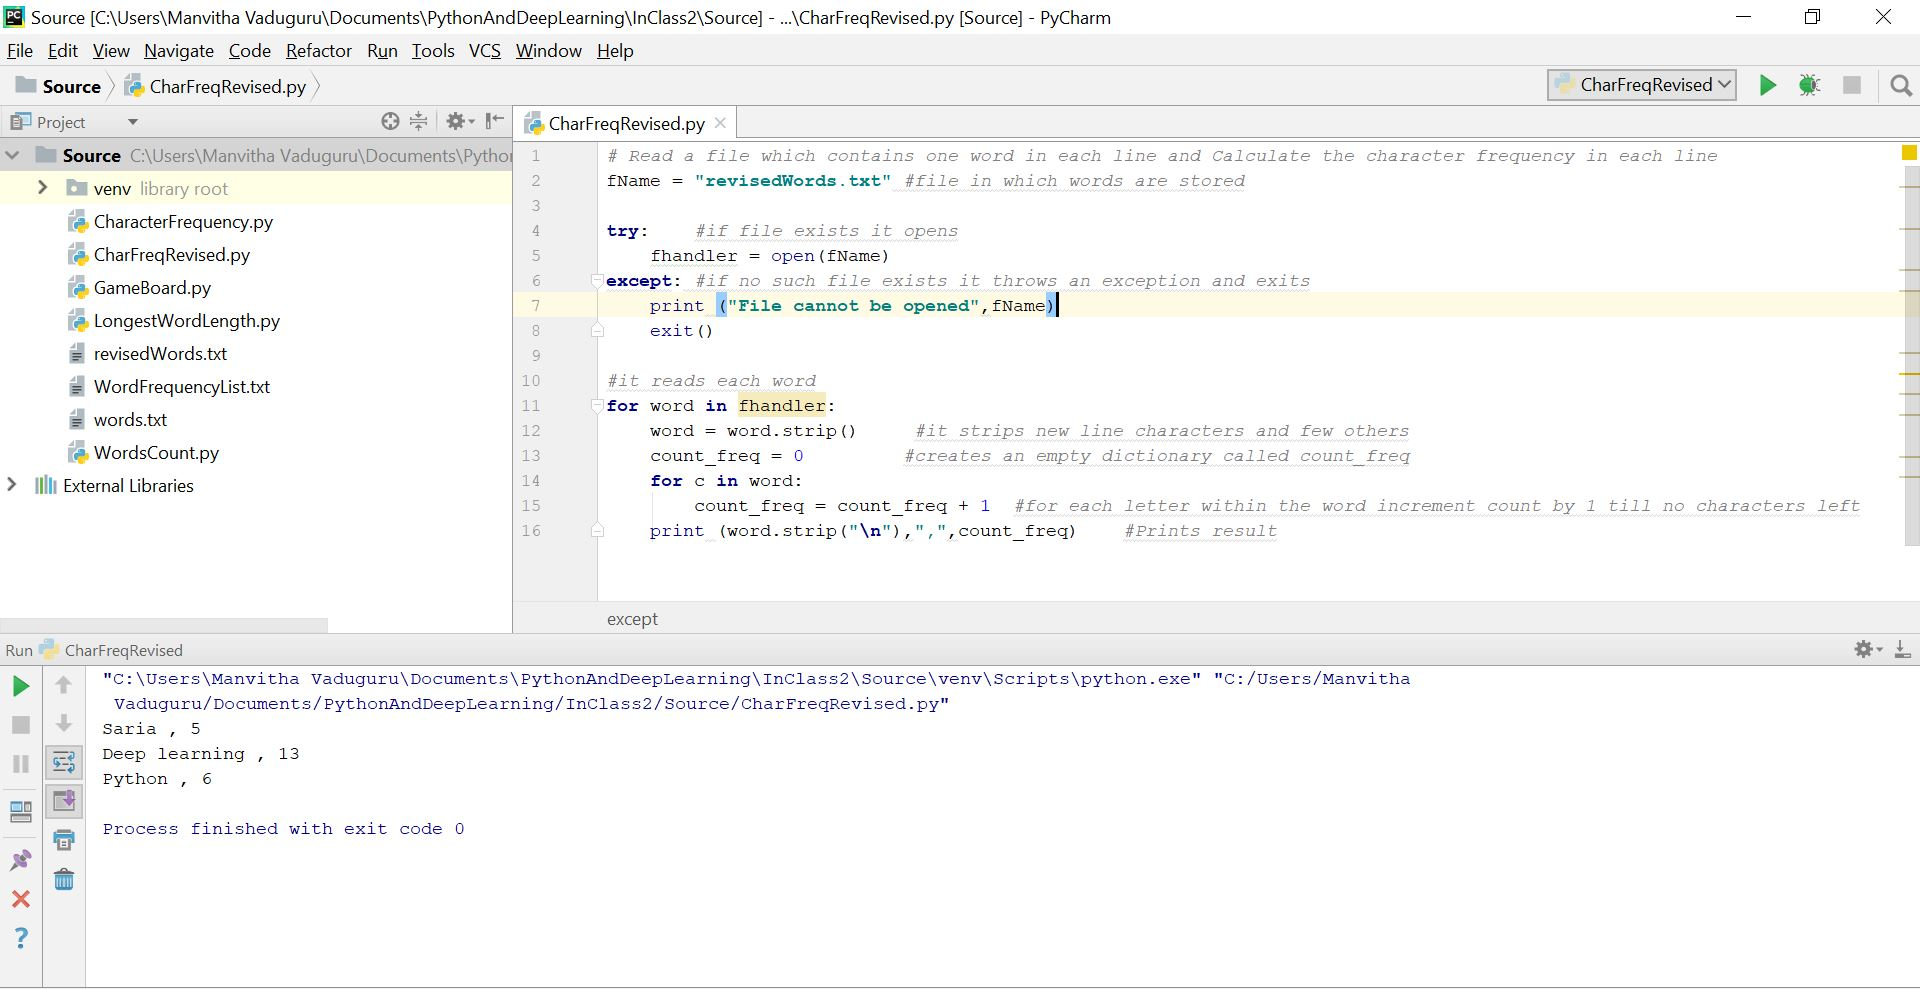
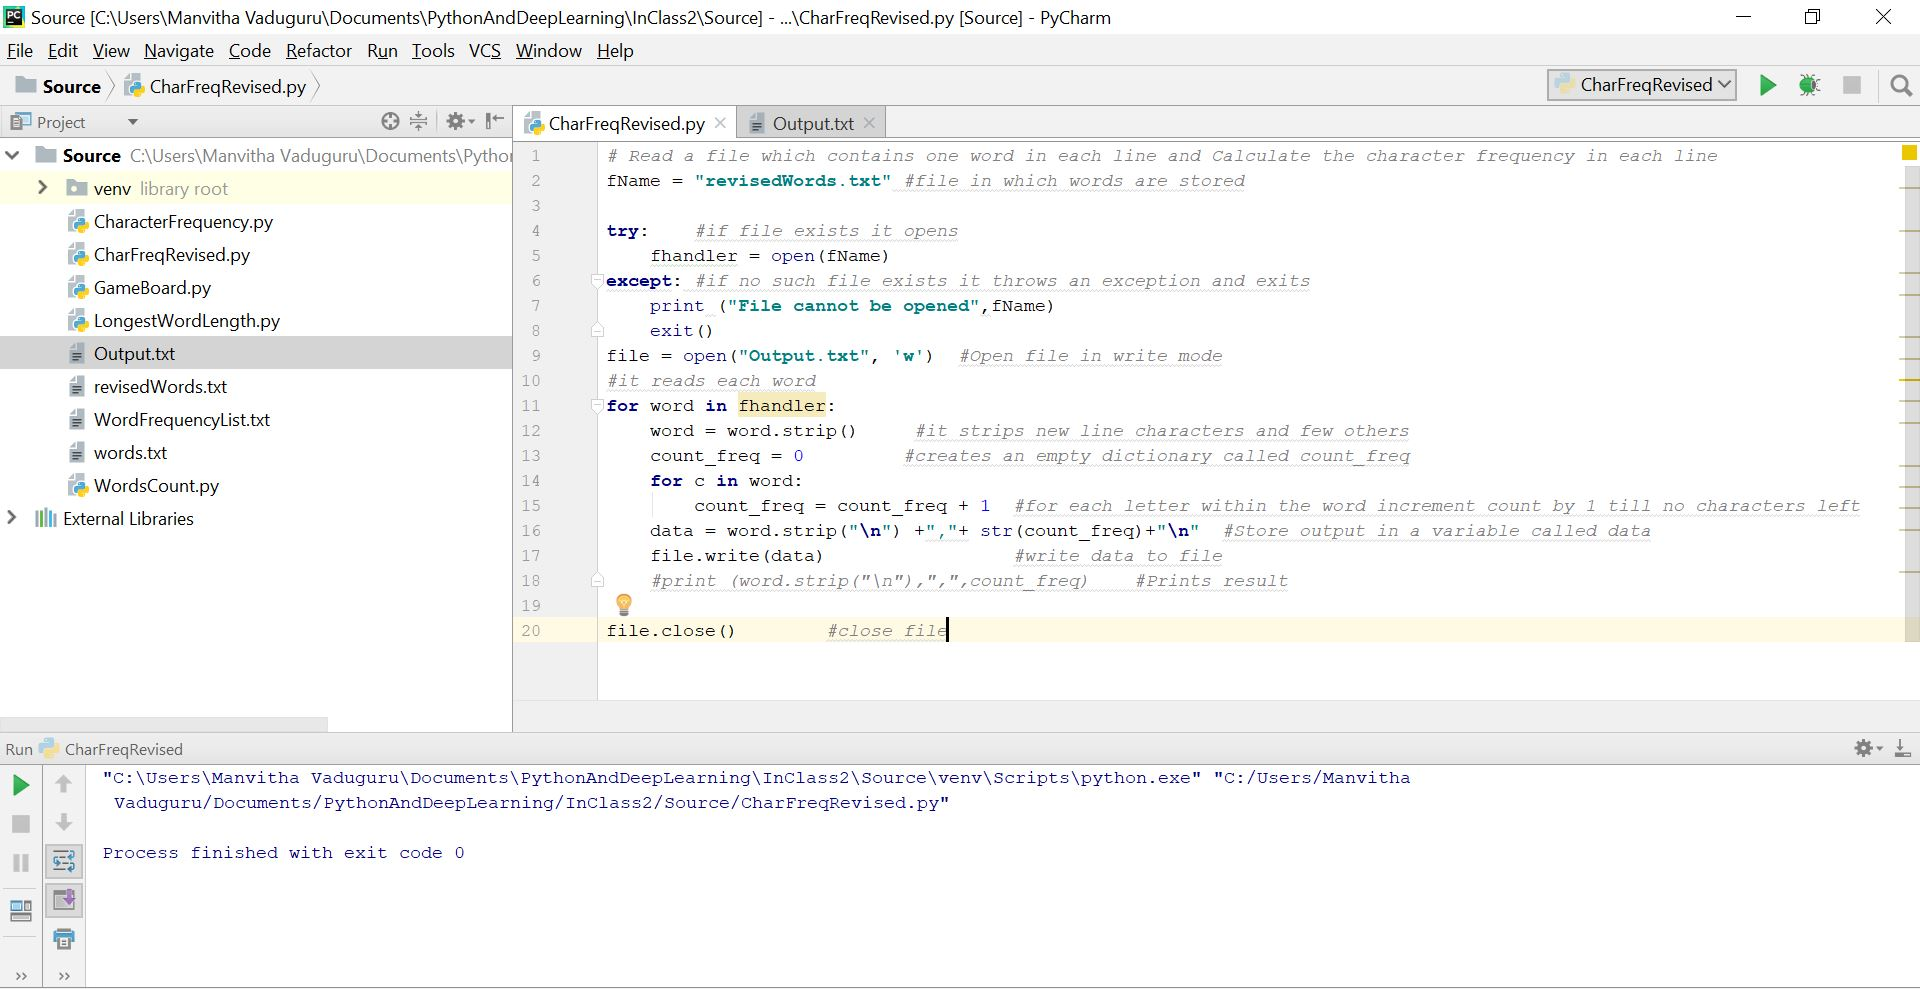
Updated code in ICP2
Updated code in ICP2

diff --git a/InClass2/Source/CharFreqRevised.py b/InClass2/Source/CharFreqRevised.py
@@ -6,11 +6,15 @@ try:    #if file exists it opens
 except: #if no such file exists it throws an exception and exits
     print ("File cannot be opened",fName)
     exit()
-
+file = open("Output.txt", 'w')  #Open file in write mode
 #it reads each word
 for word in fhandler:
     word = word.strip()     #it strips new line characters and few others
     count_freq = 0         #creates an empty dictionary called count_freq
     for c in word:
         count_freq = count_freq + 1  #for each letter within the word increment count by 1 till no characters left
-    print (word.strip("\n"),",",count_freq)    #Prints result
+    data = word.strip("\n") +","+ str(count_freq)+"\n"  #Store output in a variable called data
+    file.write(data)                 #write data to file
+    #print (word.strip("\n"),",",count_freq)    #Prints result
+
+file.close()        #close file
